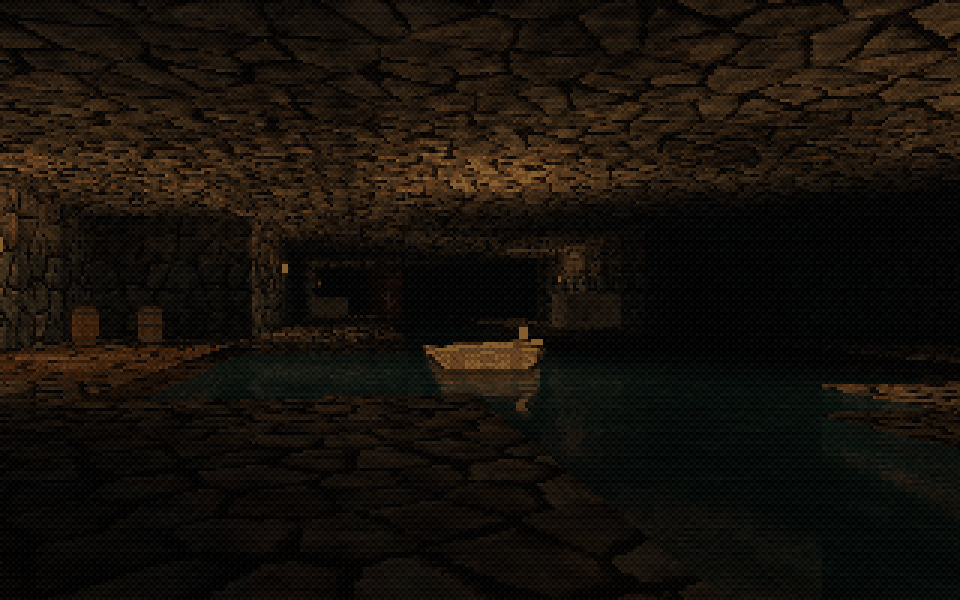
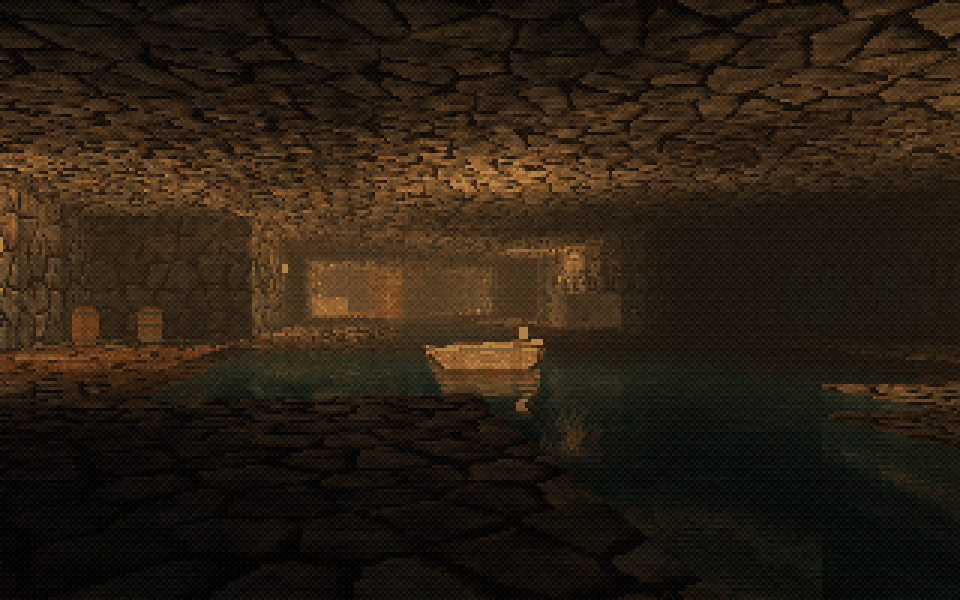
Light the underground waterway's far end, and re-rate the redrawn scenes
The waterway was murky: a near-black fog swallowed the channel a few cells out. The fog is now
thinner with a little colour and a glow round the lamps, and a pair of lanterns lights the far
end, so the channel recedes into lit stone and the boat and its reflection read.

winter_lake and coast_lighthouse are re-rated good in docs/ASSETS.md: what held them back - the
ice, the snow, the sand, the water and the shore rocks - has all been redrawn today.

diff --git a/docs/ASSETS.md b/docs/ASSETS.md
@@ -38,8 +38,8 @@ The smoke test fails while this file is out of date. Sheets show textures tiled 
 | GUI widgets | 16 | 16 | 0 | 0 | 0 |
 | Post presets | 20 | 20 | 0 | 0 | 0 |
 | Palettes | 9 | 9 | 0 | 0 | 0 |
-| Example scenes | 47 | 43 | 4 | 0 | 0 |
-| **all** | **611** | **587** | **24** | **0** | **0** |
+| Example scenes | 47 | 46 | 1 | 0 | 0 |
+| **all** | **611** | **590** | **21** | **0** | **0** |
 <!-- /summary -->
 
 ## Pass plan
@@ -853,7 +853,7 @@ The environments, judged on their gallery images and shots.
 | `mansion_library` | polish | 2 | - | Wide and empty: the shelves are far off and the beamed ceiling becomes radiating stripes. |
 | `haunted_house` | good | 4 | haunted_front, haunted_hall, haunted_parlour, haunted_ghost | Halloween at the old house: the front with jack-o'-lanterns and bats, the hall's grand stair and landing, the parlour, the ghost on the stairs. |
 | `tunnel_encounter` | good | 2 | tunnel_01 |  |
-| `underground_waterway` | polish | 4 | waterway_01 | Murky: the far end and the boat are hard to read. |
+| `underground_waterway` | good | 4 | waterway_01 | A thinner fog with halos and lanterns at the far end: the channel recedes into lit stone, the boat and its reflection read. |
 | `sewer_tunnels` | good | 3 | sewer_thing |  |
 | `bunker_lab` | good | 4 | bunker_hud, bunker_crt |  |
 
@@ -865,14 +865,14 @@ The environments, judged on their gallery images and shots.
 | `autumn_lane` | good | 4 | autumn_lane, autumn_scarecrow, autumn_dusk, autumn_walk | A lane through an autumn wood under a low sun, a field with a scarecrow, pumpkins and hay bales behind a wall; jack-o'-lanterns at dusk. |
 | `bayou` | good | 4 | bayou_dusk, bayou_night, bayou_gator, bayou_heron | A shack on an island in black water between mossy cypresses: sundown, fireflies at night, an alligator, a heron in mist. |
 | `kelp_forest` | good | 4 | sea_kelp, sea_diver, sea_shoal, sea_night | A kelp forest in teal water: a wreck with its mast, a diver with bubbles rising, a shoal; a night dive by flashlight with jellyfish. |
-| `coast_lighthouse` | polish | 4 | coast_tower, coast_jetty | The shore rocks in the tower shot are grey lumps. |
+| `coast_lighthouse` | good | 4 | coast_tower, coast_jetty | The shore rocks are the redrawn boulders now, not grey lumps; sand and water redrawn too. |
 | `rainy_street` | good | 4 | street_rain, street_lightning |  |
 | `rain_alley` | good | 4 | alley_street, alley_rain, alley_glass, alley_storm |  |
 | `neon_street` | good | 4 | neon_street, neon_stall, neon_signs, neon_runner | The neon facade style in the rain: signs, blade signs, lantern wires, a hologram koi, a noodle stall, vending machines, steam, the runner; bloom on the neon. |
 | `village_green` | good | 4 | village_market, village_stall, village_well, village_night | A cobbled street of timber-framed houses to a green: a market stall and its keeper, the inn sign, a cart, the well; the inn lit after closing. |
 | `ghost_town` | good | 4 | western_noon, western_saloon, western_ghost, western_windpump | A frontier main street: a cowboy at high noon, the saloon and its barkeep, sundown with lanterns and a ghost, a windpump in the desert. |
 | `misty_moor` | good | 3 | moor_dawn, moor_circle | Stones of varied heights with weathered menhir faces and slanted, chipped stone_cap tops in dawn mist. |
-| `winter_lake` | polish | 4 | winter_night, winter_day | The ice is blotchy (see the ice texture). |
+| `winter_lake` | good | 4 | winter_night, winter_day | Ice redrawn (fractures, depth) and snow redrawn (drifts); the snowy spruce and snow-capped boulders. |
 | `winter_woods` | good | 4 | winter_lane, winter_deer, winter_lantern, winter_stream | A snowbound wood: the lane, a deer on a frozen stream in falling snow, a child by a lantern-lit footbridge, trees mirrored in the ice. |
 | `chapel_graveyard` | good | 4 | chapel_yard, chapel_nave | The yard is a little sparse. |
 
@@ -926,6 +926,7 @@ The environments, judged on their gallery images and shots.
 ## Pass log
 
 - **2026-10-19, pass 0.** First full review of every asset, on review sheets and in the gallery. This file and `docs/asset_review.py` were added.
+- **2026-10-19, the waterway.** underground_waterway: a thinner fog with `glow`, lanterns at the far end, so the channel reads in depth. winter_lake and coast_lighthouse re-rated good: their ice, snow, sand, water and rocks were all redrawn earlier today.
 - **2026-10-19, the fallen roof.** cathedral_ruin: rafters across the hole in the roof (`log` cards at the ceiling) with ivy hanging from its edges, column drums, a broken column and rubble under it, grass in the light, and the beam shot moved out of the pews into the aisle.
 - **2026-10-19, the throne hall.** castle_keep: the camera closer, a larger throne under a great stained-glass window, banners and candelabras on the dais, guards at the foot of the steps, the knight to one side.
 - **2026-10-19, the stone circle.** `menhir`, `menhir_top` and a `stone_cap` prop: the misty moor's stones get varied heights, weathered faces and slanted, chipped tops instead of flat-topped blocks.
